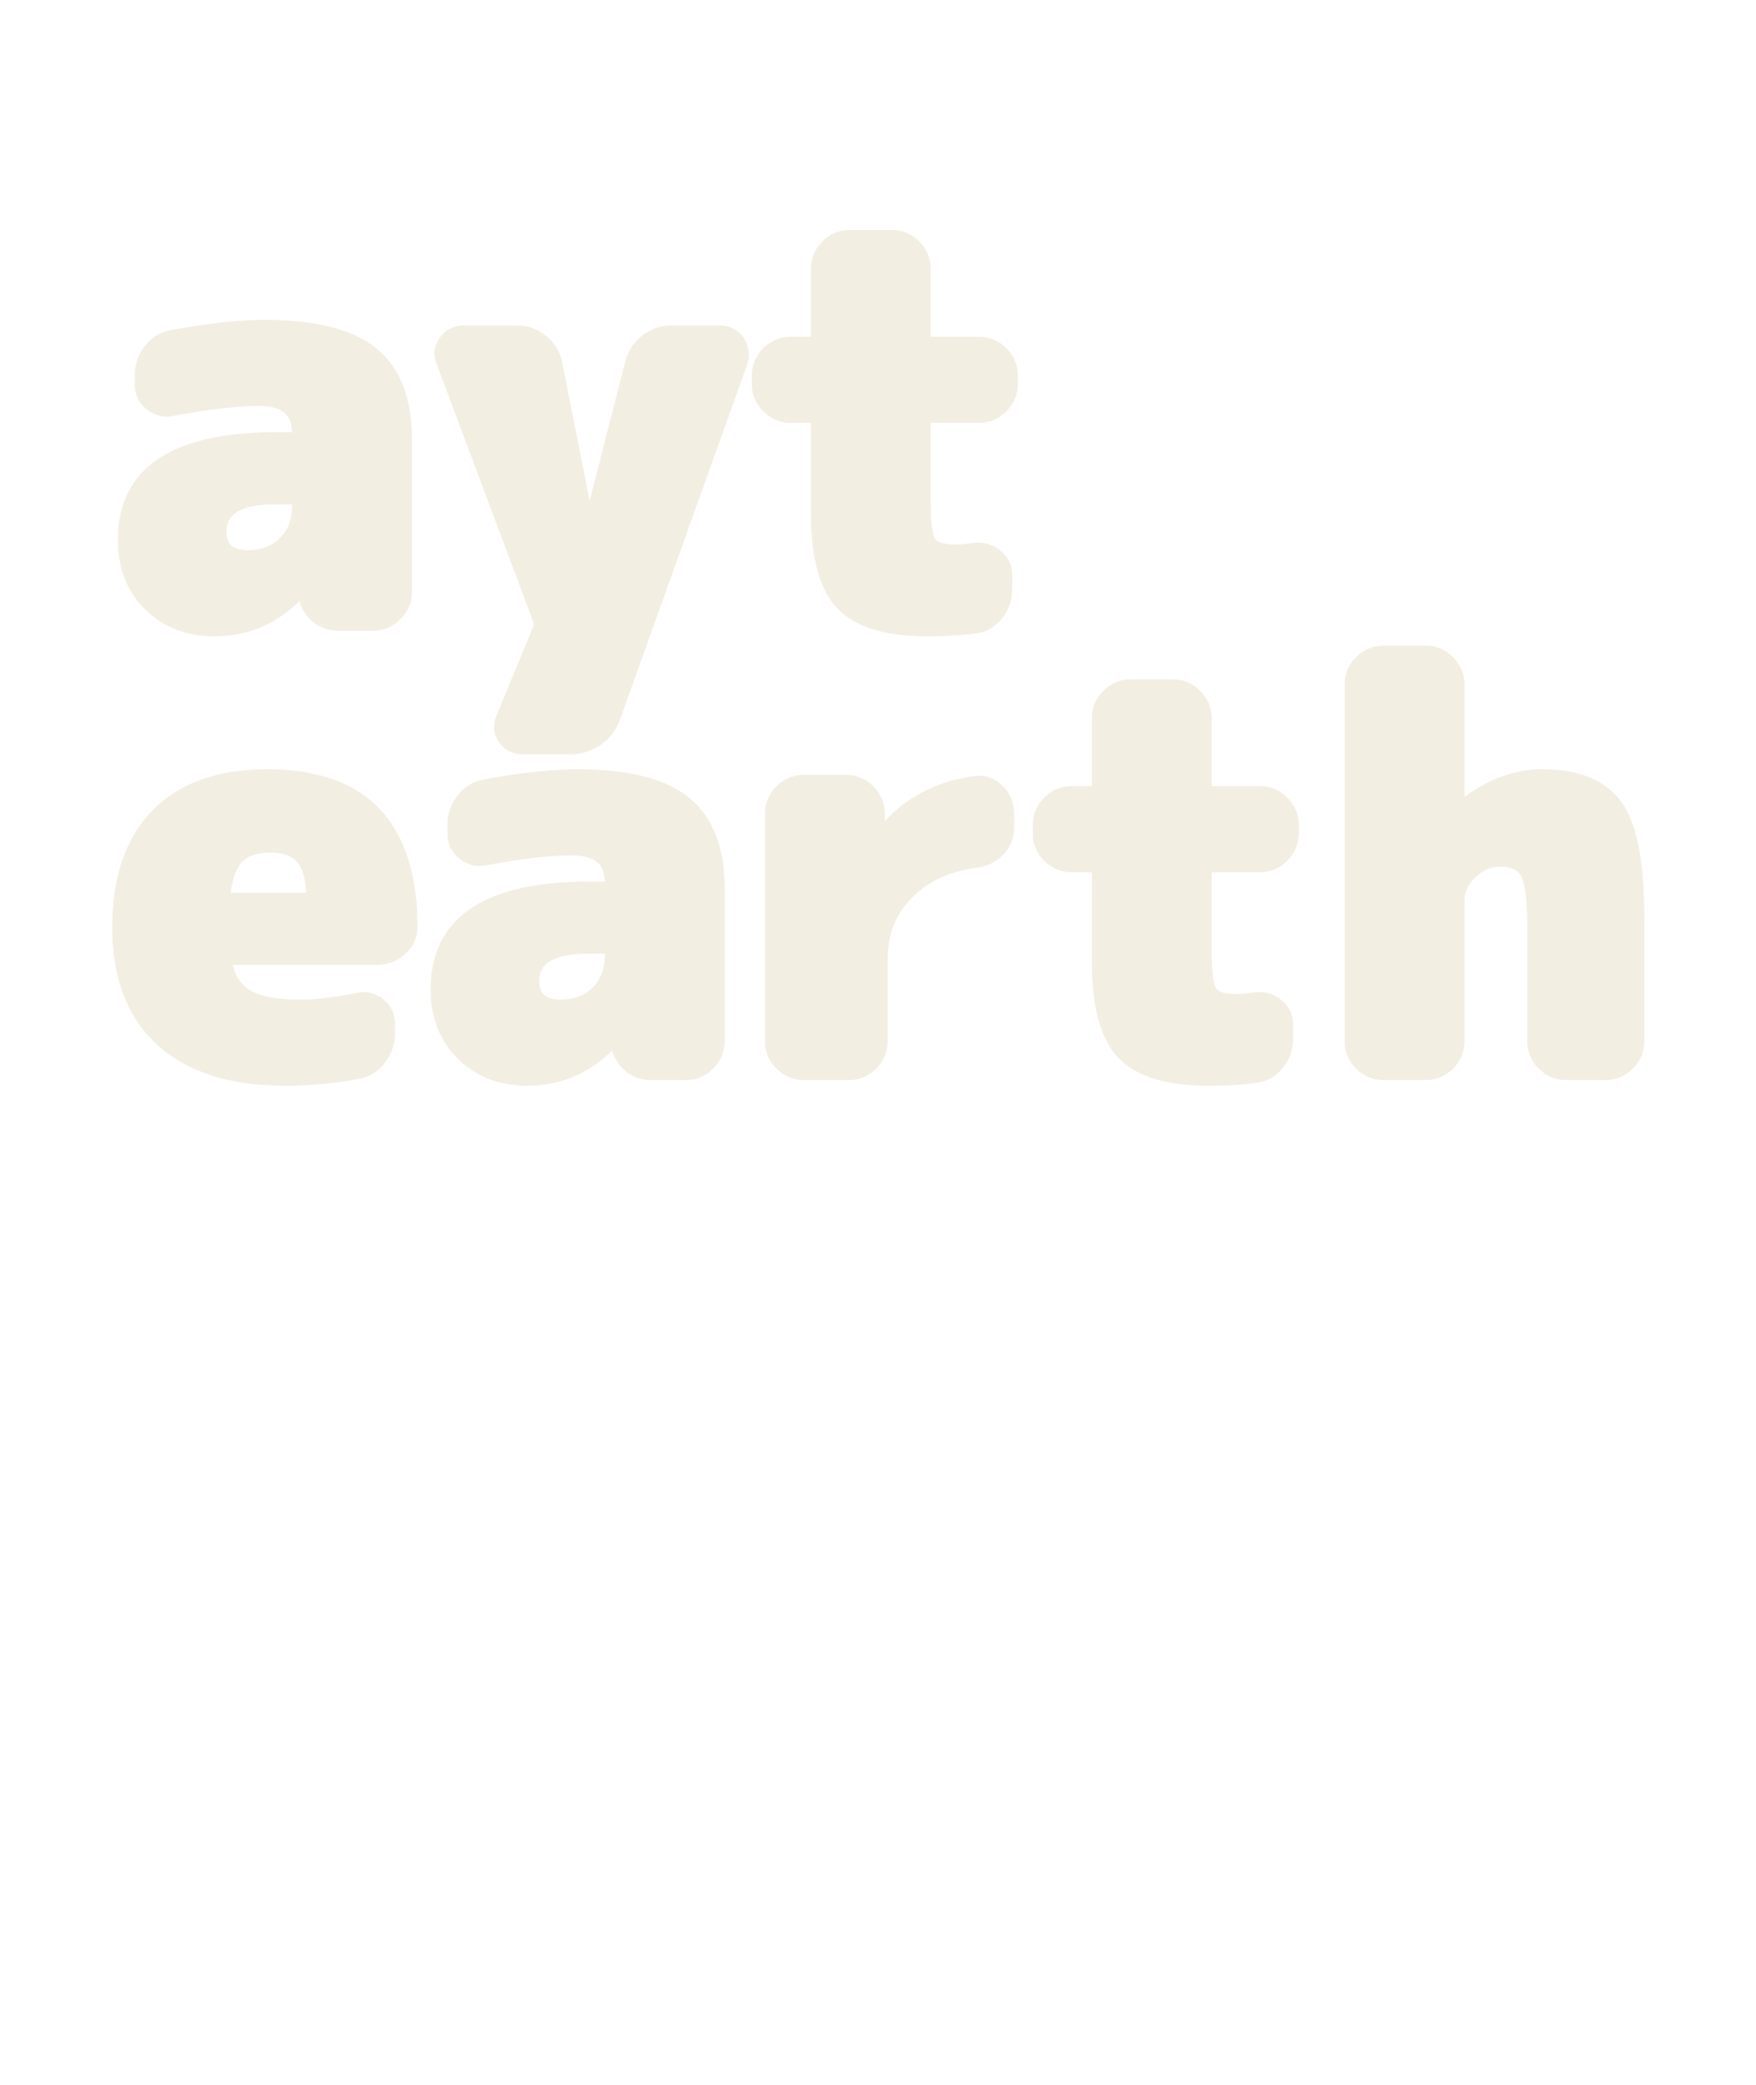
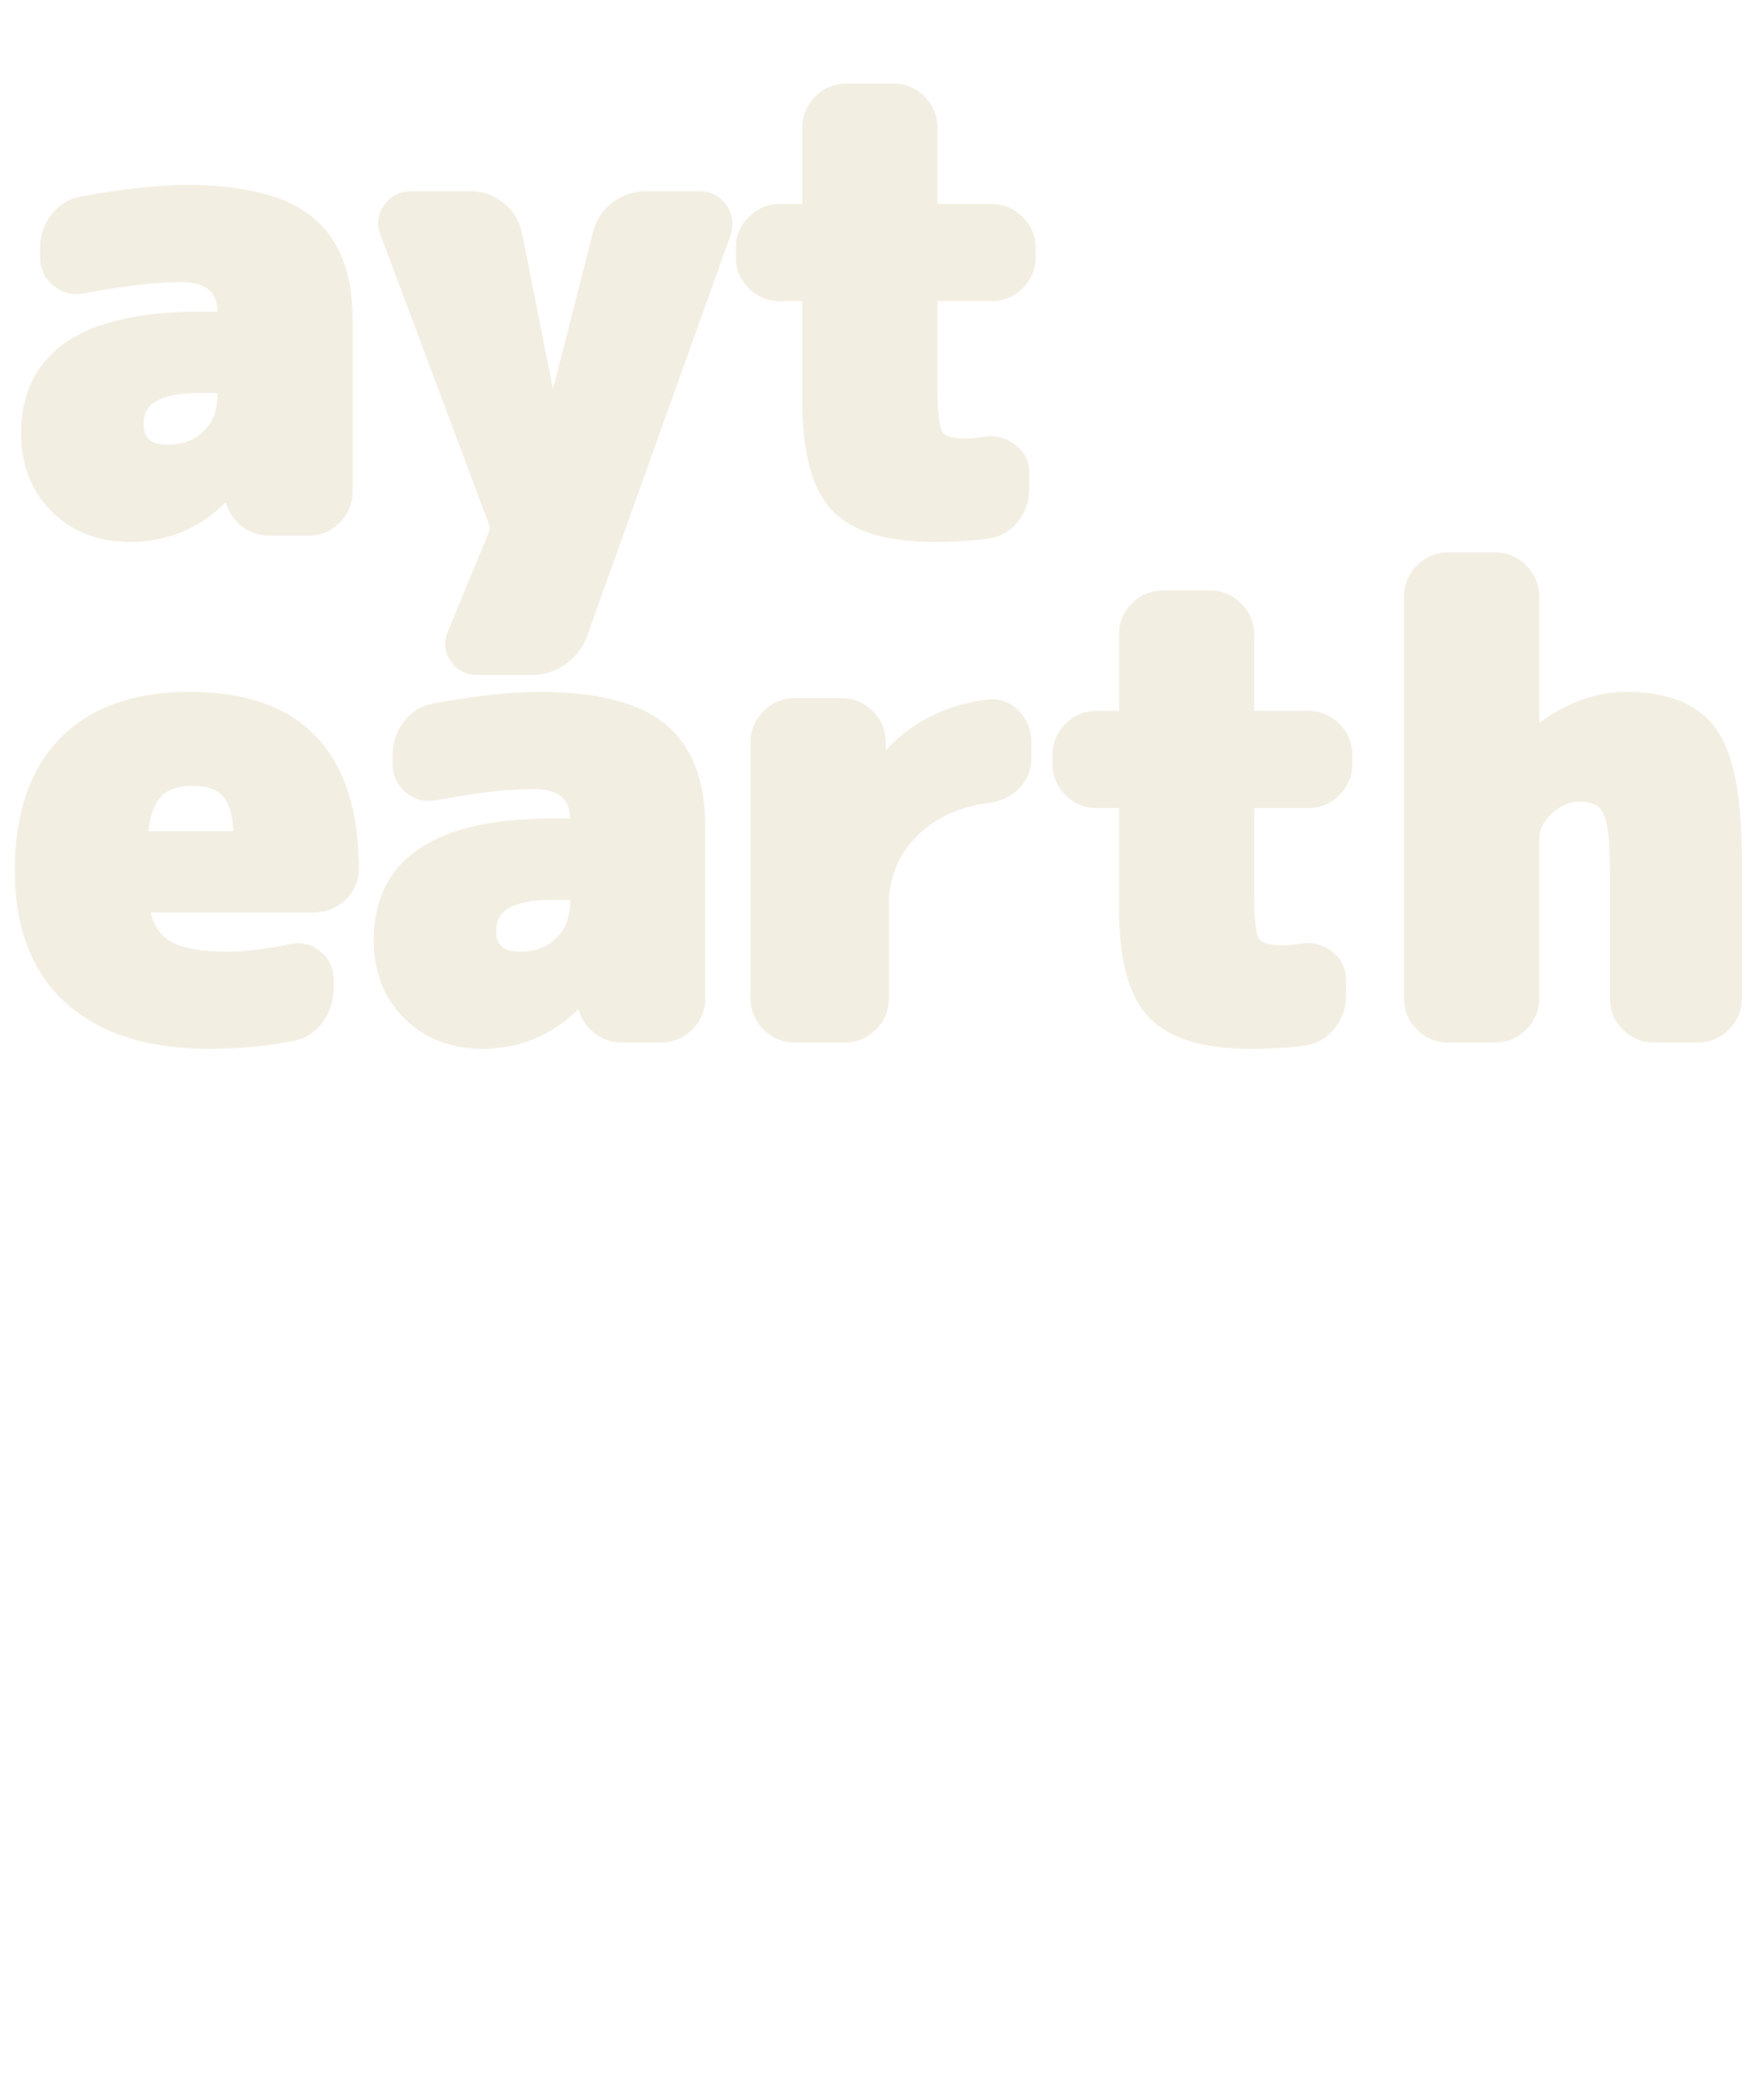
胸の字を面いっぱい・襟の近くまで上げる
試作の見本では、付箋の写真より字が小さく低かった（胸の 34% と 46%）。
刷れる面は 32cm で止まるので、幅は面いっぱいにして、上に寄せて近づける。

Claude-Session: https://claude.ai/code/session_01DhmN8akkGeuG1pLw7i8Q4S

Changed region(s): [[0.0, 0.0311, 1.0, 0.5284]]

diff --git a/tools/goods/aytearth.py b/tools/goods/aytearth.py
@@ -27,8 +27,8 @@ STROKE = 0.012        # 太らせる縁（字の大きさに対して）
 TRACK = -0.025        # 字間
 LEAD = 0.80           # 行送り。y の脚が下の行に触れない、ぎりぎり
 CANVAS = (2520, 2992)
-WIDTH = 2200          # 胸の字の幅（面 32cm のうち 28cm ほど）
-TOP = 330             # 襟の下からの高さ
+WIDTH = 2480          # 胸の字の幅。面（32cm）いっぱい。付箋の写真は胸の半分近くを字が占める
+TOP = 120             # 面の上端から。付箋の写真は襟のすぐ下から字が始まる
 
 f = ImageFont.truetype(FONT, SIZE)
 stroke = round(SIZE * STROKE)
